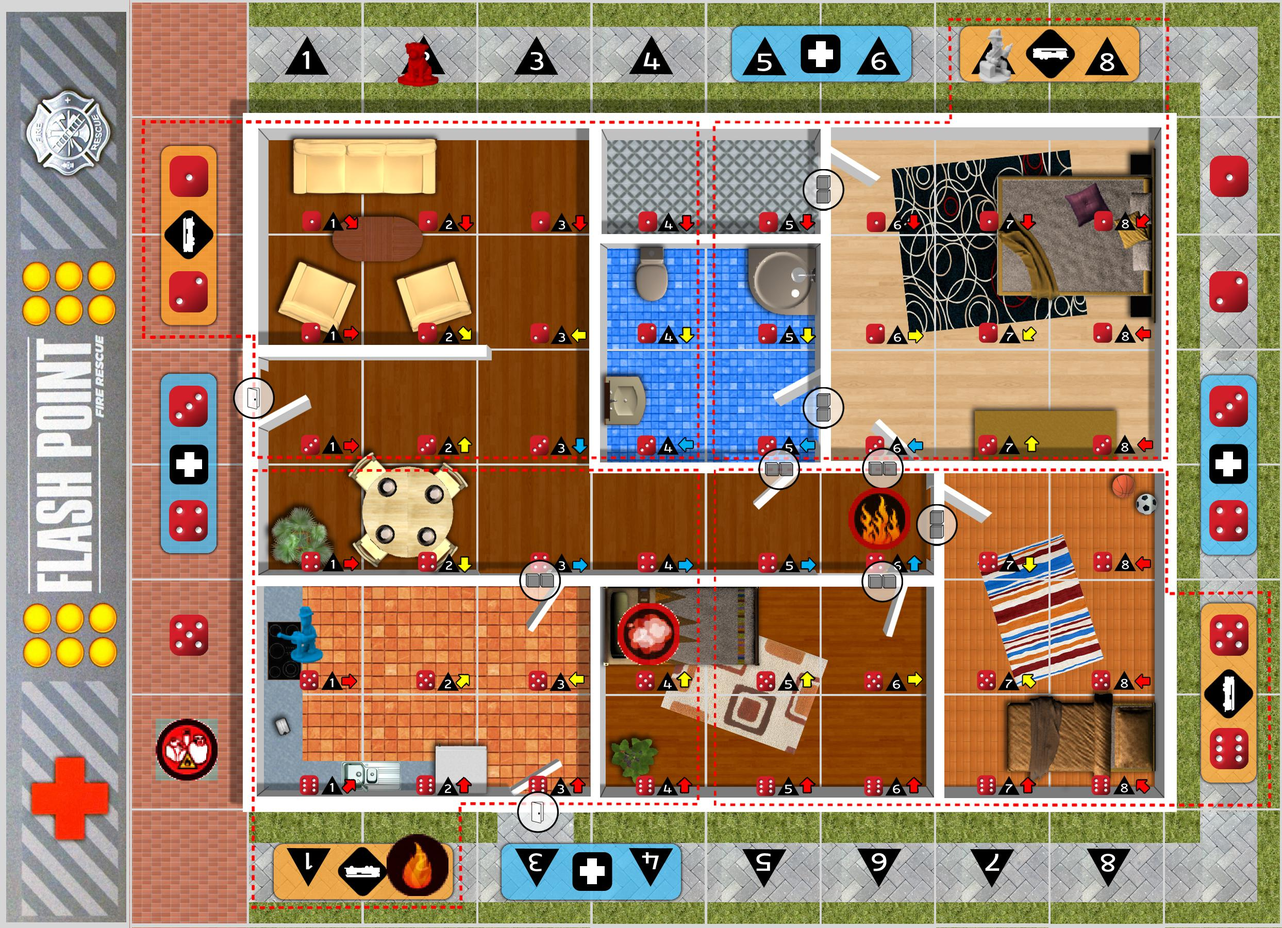
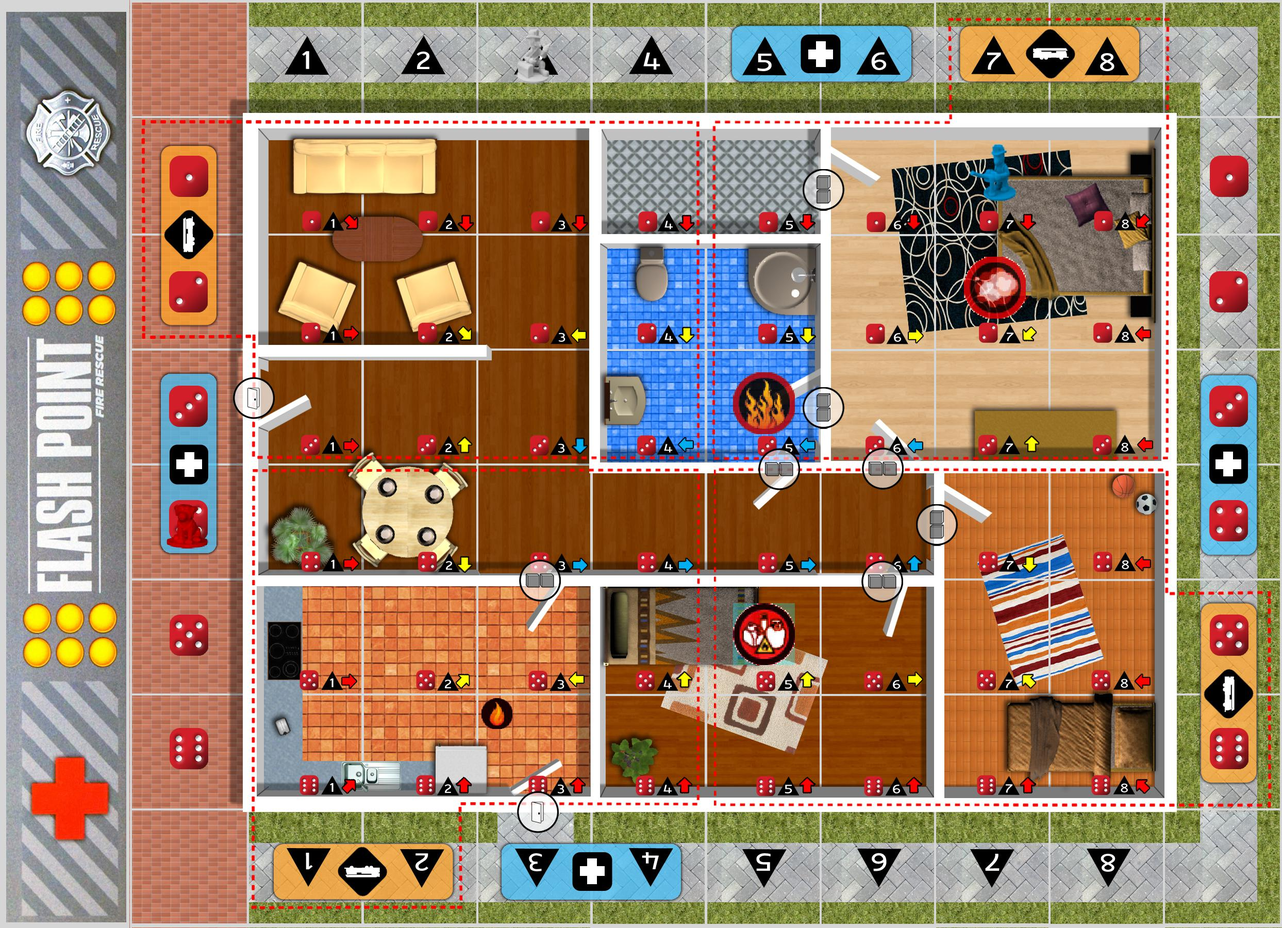
each entity is responsible to draw itself

diff --git a/hazards.py b/hazards.py
@@ -4,15 +4,16 @@ from PIL import Image, ImageFilter
 
 class Hazard(object):
 
+    width = 120
+    height = 120
+    offsetRed = height/2
+    offsetBlack = width/2
+
     def __init__(self, hazard_type, red, black):
         self.hazard_type = hazard_type
         self.set_position(red, black)
         self.key = "{}-{}-{}".format(hazard_type, red, black)
 
-        self.width = 120
-        self.height = 120
-        self.offsetRed = self.height/2
-        self.offsetBlack = self.width/2
         self.image = Image.open("assets/tokens/{}.png".format(self.hazard_type)).resize((self.width,self.height))
 
     @staticmethod
@@ -25,6 +26,24 @@ class Hazard(object):
     def set_position(self, red, black):
         self.red = red
         self.black = black
+
+    def draw(self, map):
+        image = map.image
+        new_image = Image.new(image.mode, image.size)
+        new_image.paste(image)
+
+        translatedRed = map.translateRed(self.red)
+        translatedBlack = map.translateBlack(self.black)
+        left   = translatedBlack - self.offsetBlack
+        top    = translatedRed - self.offsetRed
+        right  = left + self.width
+        bottom = top + self.height
+
+        alpha = self.image.split()[-1]
+        new_image.paste(self.image, (left, top, right, bottom), mask=alpha)
+
+        map.image = new_image
+
 
 class Smoke(Hazard):
     def __init__(self, red, black):
@@ -40,4 +59,8 @@ class Hazmat(Hazard):
 
 class HotSpot(Hazard):
     def __init__(self, red, black):
+        self.width = 60
+        self.height = 60
+        self.offsetRed = self.height+40
+        self.offsetBlack = self.width+40
         Hazard.__init__(self, "hot_spot", red, black)

diff --git a/maps.py b/maps.py
@@ -36,31 +36,13 @@ class Map:
     def draw_map(self):
         self.image = Image.open( "assets/maps/{}.jpg".format(self.name) )
 
-        self.draw_entities(self.firefighters)
+        for firefighter in self.firefighters.itervalues():
+            firefighter.draw(self)
 
-        self.draw_entities(self.hazards)
+        for hazard in self.hazards.itervalues():
+            hazard.draw(self)
 
         self.image.save('output/output.jpg', 'JPEG')
-
-    def draw_entities(self, entities):
-        image = self.image
-        new_image = Image.new(image.mode, image.size)
-        new_image.paste(image)
-
-        for entity in entities.itervalues():
-            red = entity.red
-            black = entity.black
-            translatedRed = self.translateRed(red)
-            translatedBlack = self.translateBlack(black)
-            left   = translatedBlack - entity.offsetBlack
-            top    = translatedRed - entity.offsetRed
-            right  = left + entity.width
-            bottom = top + entity.height
-
-            alpha = entity.image.split()[-1]
-            new_image.paste(entity.image, (left, top, right, bottom), mask=alpha)
-
-        self.image = new_image
 
     def translateRed(self, red):
         return red
@@ -71,8 +53,6 @@ class Map:
 
 class StandardMap(Map):
 
-    # black = { 0:368, 1:595, 2:821, 3:1040, 4:1263, 5:1483, 6:1704, 7:1927, 8:2147, 9:2371 }
-    # red = { 0:115, 1:344, 2:572, 3:795,  4:1010, 5:1231, 6:1451, 7:1676 }
     ORIGIN_RED = 0
     ORIGIN_BLACK = 252
     TILE_WIDTH = 220

diff --git a/dispatcher.py b/dispatcher.py
@@ -96,23 +96,23 @@ black = random.randint(0, 9)
 print "move to {} {}".format(red, black)
 d.move_to("rescue_dog", red, black)
 
-red = random.randint(0, 7)
-black = random.randint(0, 9)
+red = random.randint(1, 6)
+black = random.randint(1, 8)
 print "smoke at {} {}".format(red, black)
 d.add_hazard("smoke", red, black)
 
-red = random.randint(0, 7)
-black = random.randint(0, 9)
+red = random.randint(1, 6)
+black = random.randint(1, 8)
 print "fire at {} {}".format(red, black)
 d.add_hazard("fire", red, black)
 
-red = random.randint(0, 7)
-black = random.randint(0, 9)
+red = random.randint(1, 6)
+black = random.randint(1, 8)
 print "hazmat at {} {}".format(red, black)
 d.add_hazard("hazmat", red, black)
 
-red = random.randint(0, 7)
-black = random.randint(0, 9)
+red = random.randint(1, 6)
+black = random.randint(1, 8)
 print "hot_spot at {} {}".format(red, black)
 d.add_hazard("hot_spot", red, black)
 

diff --git a/firefighters.py b/firefighters.py
@@ -39,6 +39,25 @@ class Firefighter(object):
     def set_player(self, player):
         self.player = player
 
+    def draw(self, map):
+        image = map.image
+        new_image = Image.new(image.mode, image.size)
+        new_image.paste(image)
+
+        translatedRed = map.translateRed(self.red)
+        translatedBlack = map.translateBlack(self.black)
+        left   = translatedBlack - self.offsetBlack
+        top    = translatedRed - self.offsetRed
+        right  = left + self.width
+        bottom = top + self.height
+
+        alpha = self.image.split()[-1]
+        new_image.paste(self.image, (left, top, right, bottom), mask=alpha)
+
+        map.image = new_image
+
+
+
 class CAFS(Firefighter):
     def __init__(self, player):
         Firefighter.__init__(self, "cafs_firefighter", player)
